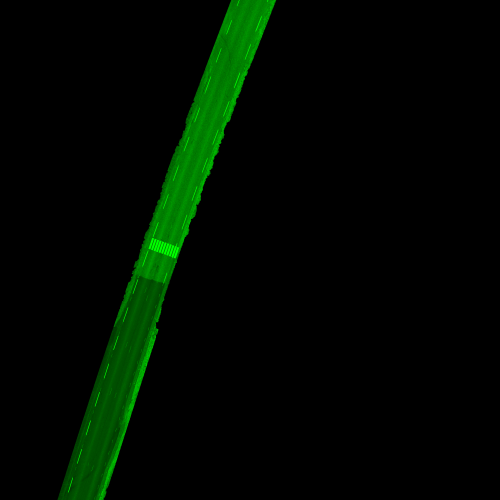
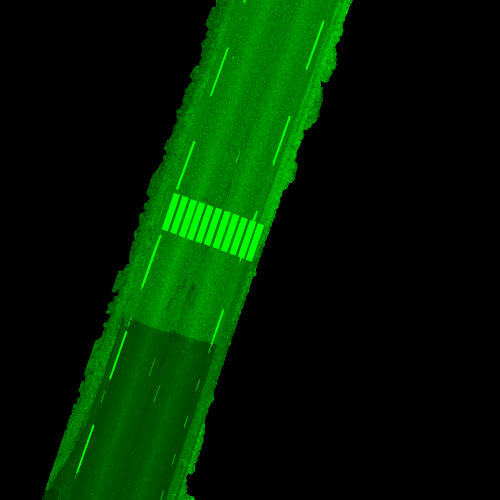
feat: crop images

Changed region(s): [[0.06, 0.0, 0.72, 1.0]]

diff --git a/src/imageProcessing/imageProcess.py b/src/imageProcessing/imageProcess.py
@@ -3,4 +3,6 @@ import cv2
 
 
 def makeImageSmallForReport(image):
-    return cv2.resize(image, (500, 500), interpolation=cv2.INTER_AREA)
+    # return cv2.resize(image, (500, 500), interpolation=cv2.INTER_AREA)
+    cropped = image[1800:3300, 1000:2500]
+    return cv2.resize(cropped, (500, 500), interpolation=cv2.INTER_AREA)
